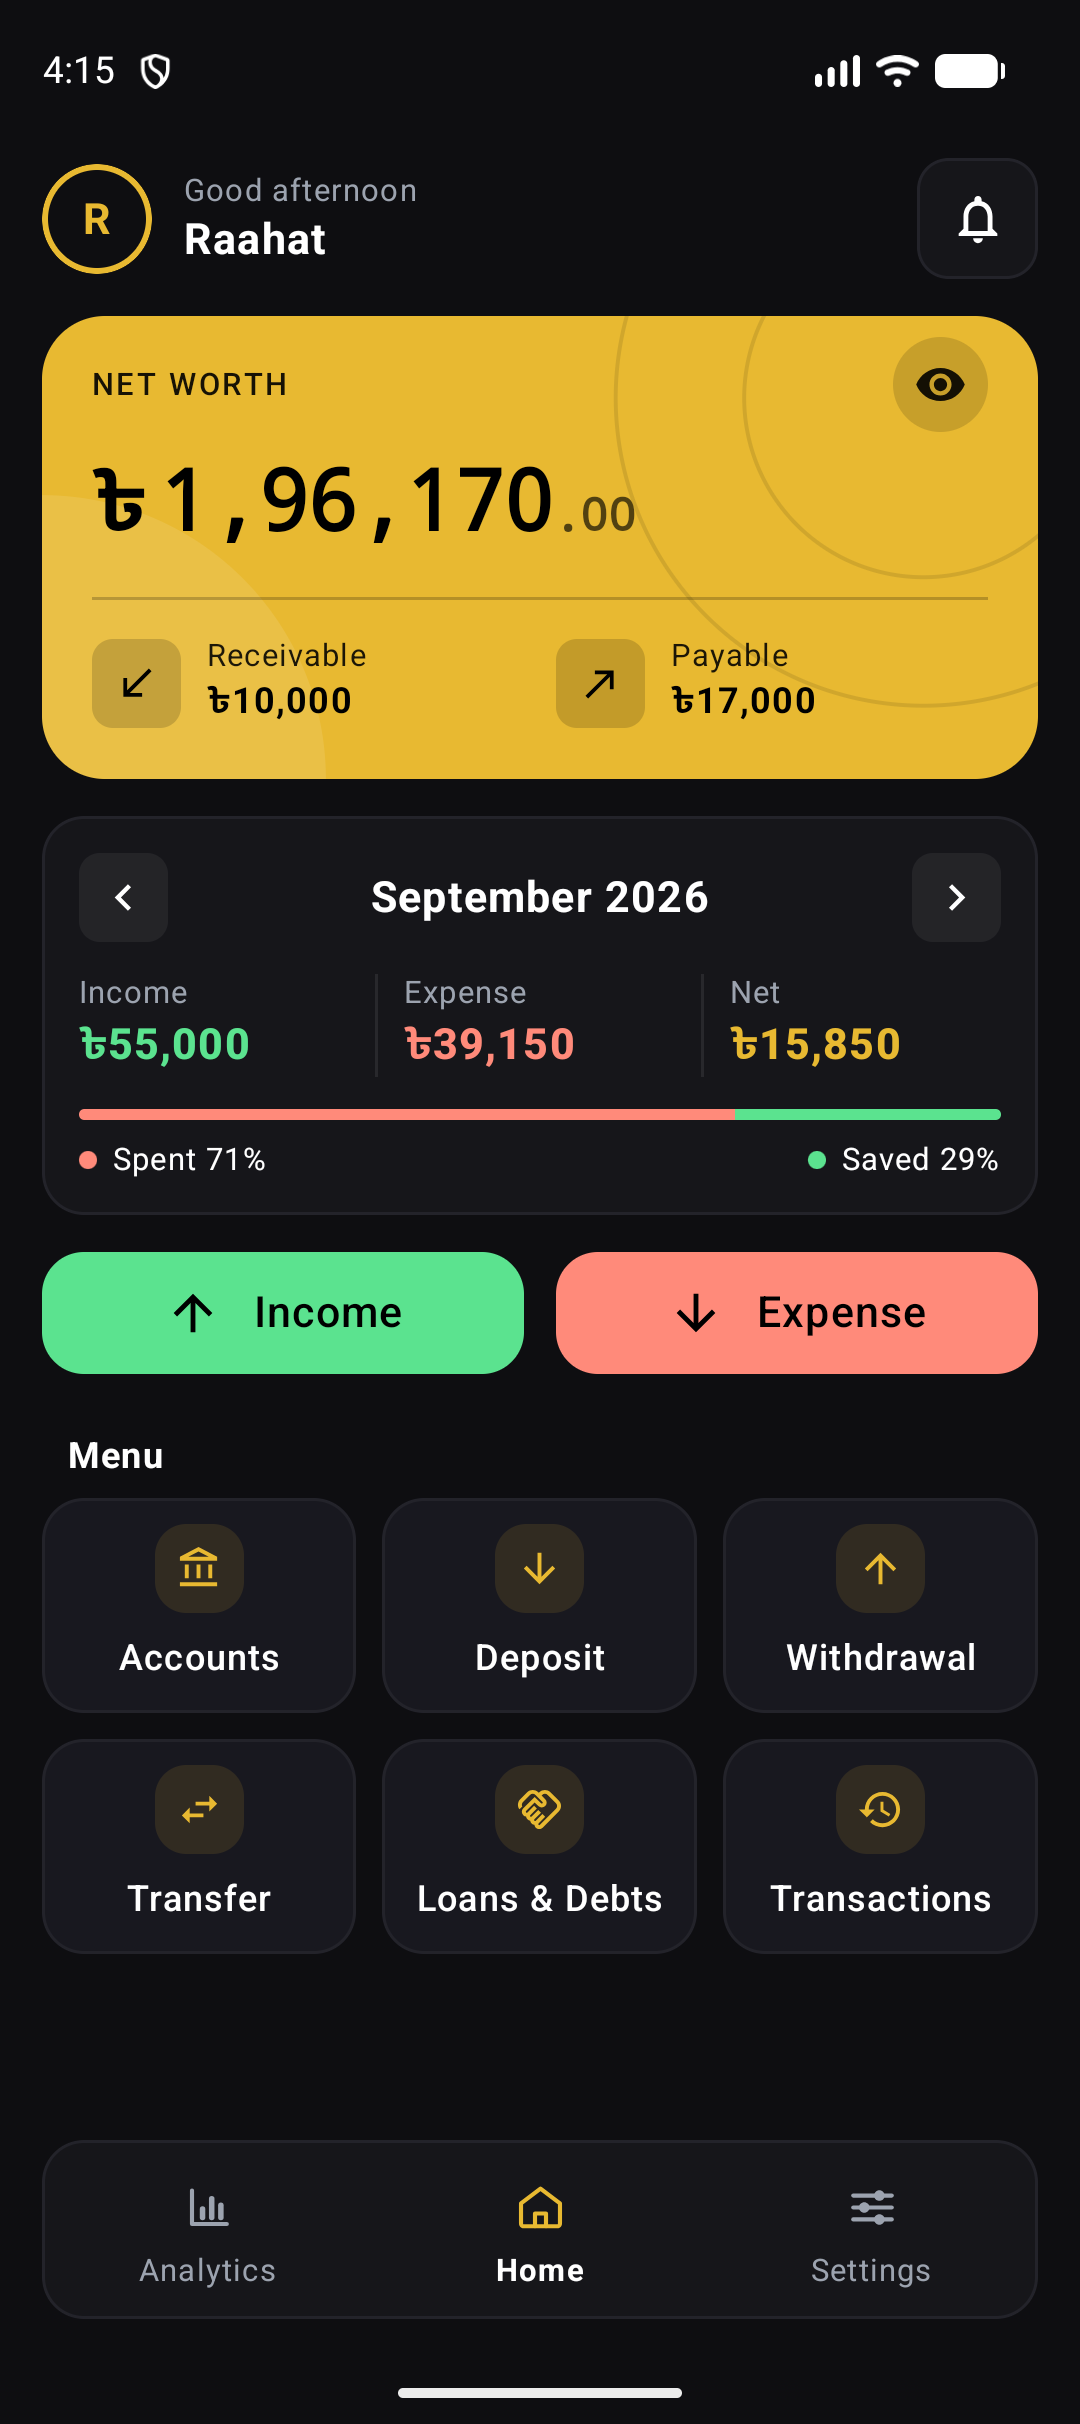
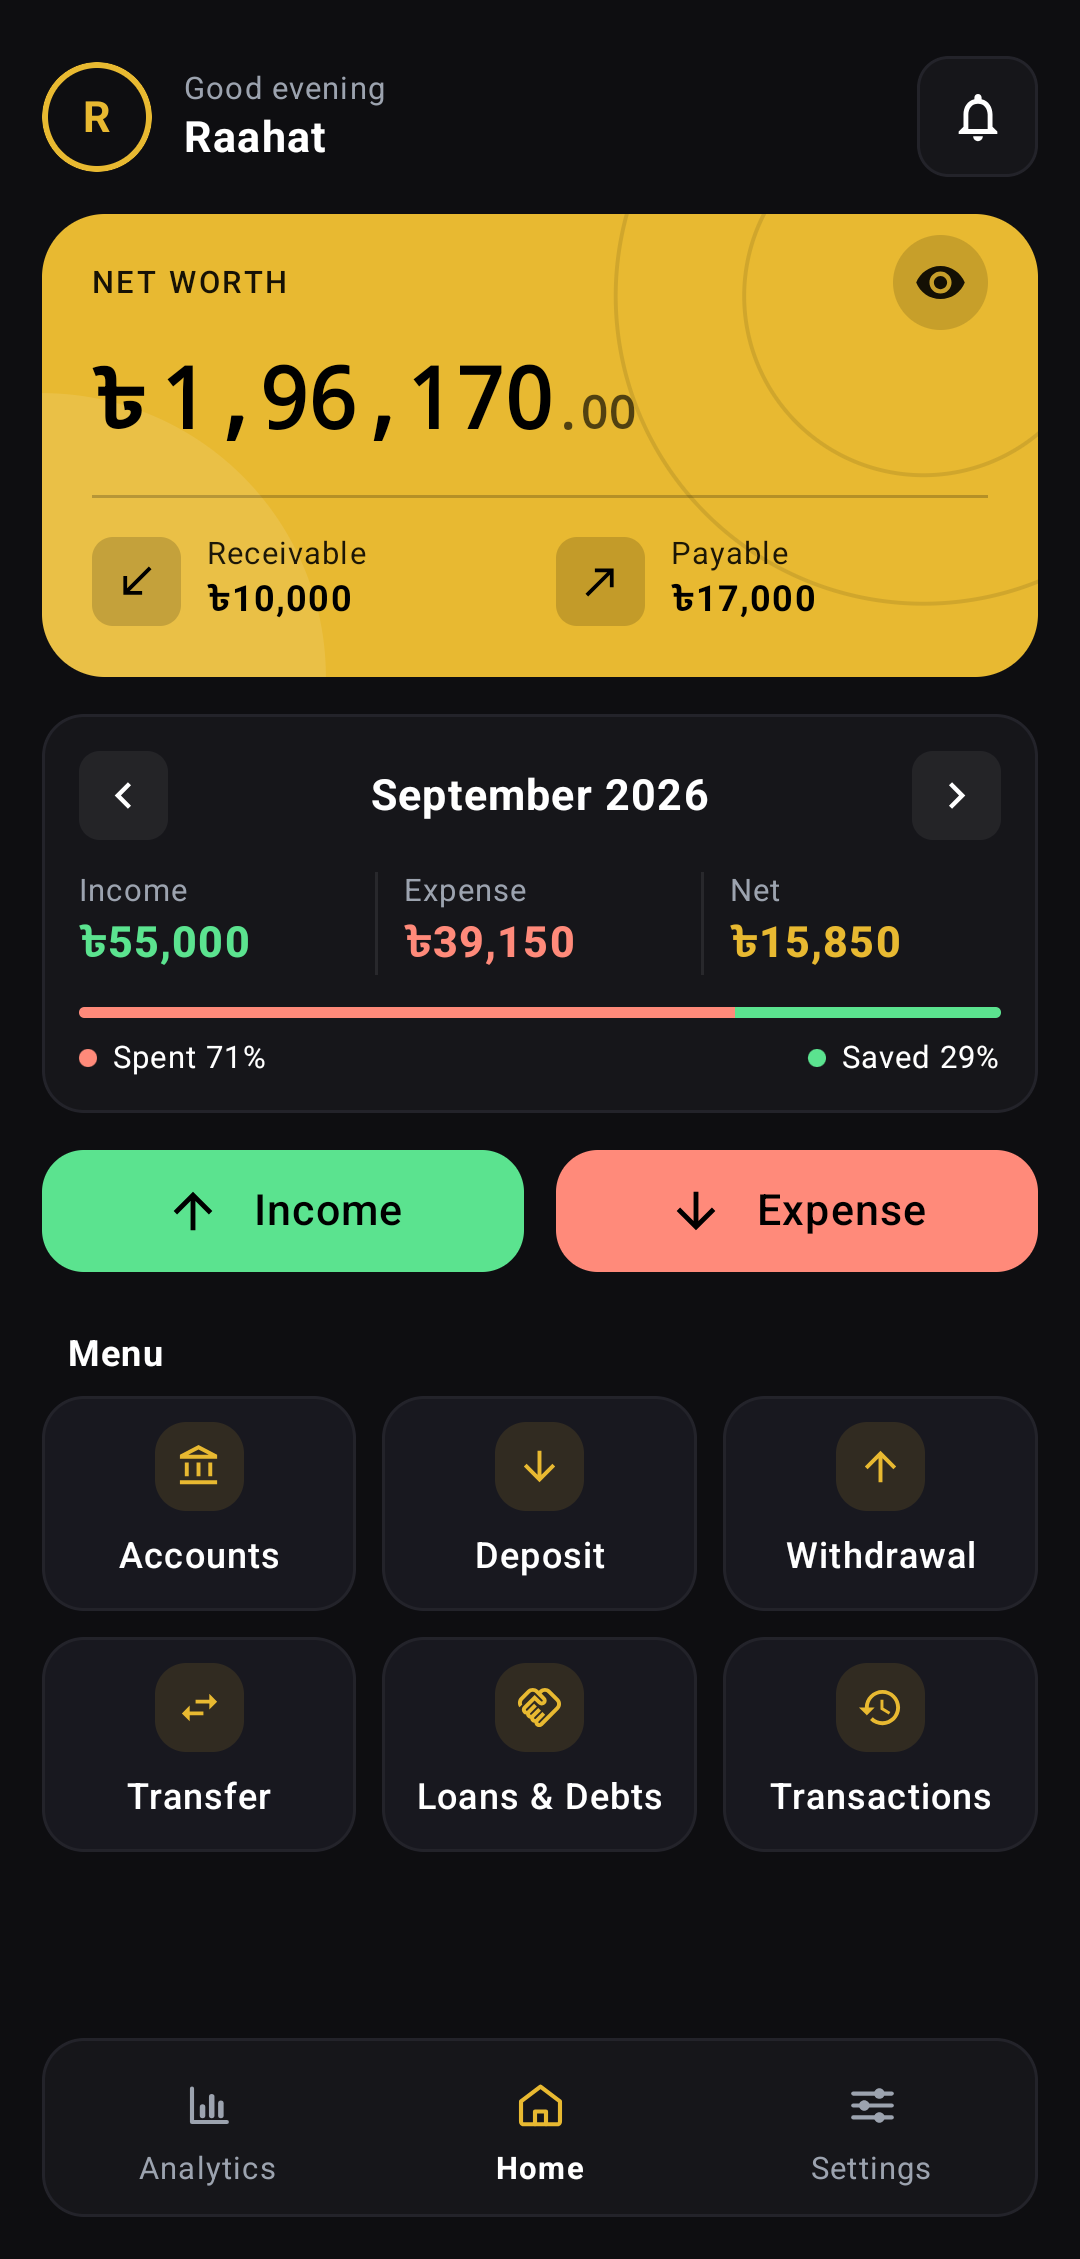
Every picture from 1.1.67, in both languages, without the phone's own bars
1.1.67 gave the app the wallet icon the site already wears, and the site's pictures
still showed the old one. All of them are re-taken on LB_Clean from that release:

- Steps 1 to 3 of the install guide, the phone's own dialogs, through a real install
  of 1.1.67 -- Chrome now names LedgerBook_v1.1.67.apk, and "Install this app?" and
  Play Protect show the wallet.
- Step 4's three sign-up screens and the features page's six screens, in both themes.

The app's own screens now come in Bangla too. With the site in Bangla, each picture of
the app swaps to its Bangla twin through data-bn -- the same screen, the same ledger,
the app's words in Bangla -- and back again in English, in the full-size view as well.
The phone's dialogs stay in English: they are in whatever language the reader's phone
is, and the Bangla text names their buttons in English to match. check.js checks every
data-bn file exists.

Every app screenshot has the phone's status bar (142px: time, signal, battery) and
gesture bar (63px) cut away, measured from the device's own insets, and 40px of the
app's own background put back above the first line so it does not sit on the edge.

The Backup screen looks smaller than the other five because the app draws that screen
in smaller type; the picture is the same size. Left as it is, by the owner's choice.

diff --git a/features.html b/features.html
@@ -96,43 +96,43 @@
     <div class="shots-row">
       <figure class="shot">
         <button type="button" class="frame zoom" aria-describedby="cap-1" data-s-label="lbOpen">
-          <img class="s-light" src="assets/screens/app-home-light.png" width="1080" height="2424" loading="lazy" alt="">
-          <img class="s-dark"  src="assets/screens/app-home-dark.png"  width="1080" height="2424" loading="lazy" alt="">
+          <img class="s-light" src="assets/screens/app-home-light.png" data-bn="assets/screens/app-home-light-bn.png" width="1080" height="2259" loading="lazy" alt="">
+          <img class="s-dark"  src="assets/screens/app-home-dark.png" data-bn="assets/screens/app-home-dark-bn.png"  width="1080" height="2259" loading="lazy" alt="">
         </button>
         <figcaption id="cap-1" data-s="shotHome">The first screen</figcaption>
       </figure>
       <figure class="shot">
         <button type="button" class="frame zoom" aria-describedby="cap-2" data-s-label="lbOpen">
-          <img class="s-light" src="assets/screens/app-txn-light.png" width="1080" height="2424" loading="lazy" alt="">
-          <img class="s-dark"  src="assets/screens/app-txn-dark.png"  width="1080" height="2424" loading="lazy" alt="">
+          <img class="s-light" src="assets/screens/app-txn-light.png" data-bn="assets/screens/app-txn-light-bn.png" width="1080" height="2259" loading="lazy" alt="">
+          <img class="s-dark"  src="assets/screens/app-txn-dark.png" data-bn="assets/screens/app-txn-dark-bn.png"  width="1080" height="2259" loading="lazy" alt="">
         </button>
         <figcaption id="cap-2" data-s="shotTxn">Every entry, filtered</figcaption>
       </figure>
       <figure class="shot">
         <button type="button" class="frame zoom" aria-describedby="cap-3" data-s-label="lbOpen">
-          <img class="s-light" src="assets/screens/app-accounts-light.png" width="1080" height="2424" loading="lazy" alt="">
-          <img class="s-dark"  src="assets/screens/app-accounts-dark.png"  width="1080" height="2424" loading="lazy" alt="">
+          <img class="s-light" src="assets/screens/app-accounts-light.png" data-bn="assets/screens/app-accounts-light-bn.png" width="1080" height="2259" loading="lazy" alt="">
+          <img class="s-dark"  src="assets/screens/app-accounts-dark.png" data-bn="assets/screens/app-accounts-dark-bn.png"  width="1080" height="2259" loading="lazy" alt="">
         </button>
         <figcaption id="cap-3" data-s="shotAccounts">The accounts</figcaption>
       </figure>
       <figure class="shot">
         <button type="button" class="frame zoom" aria-describedby="cap-4" data-s-label="lbOpen">
-          <img class="s-light" src="assets/screens/app-loans-light.png" width="1080" height="2424" loading="lazy" alt="">
-          <img class="s-dark"  src="assets/screens/app-loans-dark.png"  width="1080" height="2424" loading="lazy" alt="">
+          <img class="s-light" src="assets/screens/app-loans-light.png" data-bn="assets/screens/app-loans-light-bn.png" width="1080" height="2259" loading="lazy" alt="">
+          <img class="s-dark"  src="assets/screens/app-loans-dark.png" data-bn="assets/screens/app-loans-dark-bn.png"  width="1080" height="2259" loading="lazy" alt="">
         </button>
         <figcaption id="cap-4" data-s="shotLoans">Who owes whom</figcaption>
       </figure>
       <figure class="shot">
         <button type="button" class="frame zoom" aria-describedby="cap-5" data-s-label="lbOpen">
-          <img class="s-light" src="assets/screens/app-analytics-light.png" width="1080" height="2424" loading="lazy" alt="">
-          <img class="s-dark"  src="assets/screens/app-analytics-dark.png"  width="1080" height="2424" loading="lazy" alt="">
+          <img class="s-light" src="assets/screens/app-analytics-light.png" data-bn="assets/screens/app-analytics-light-bn.png" width="1080" height="2259" loading="lazy" alt="">
+          <img class="s-dark"  src="assets/screens/app-analytics-dark.png" data-bn="assets/screens/app-analytics-dark-bn.png"  width="1080" height="2259" loading="lazy" alt="">
         </button>
         <figcaption id="cap-5" data-s="shotAnalytics">Where the month went</figcaption>
       </figure>
       <figure class="shot">
         <button type="button" class="frame zoom" aria-describedby="cap-6" data-s-label="lbOpen">
-          <img class="s-light" src="assets/screens/app-backup-light.png" width="1080" height="2424" loading="lazy" alt="">
-          <img class="s-dark"  src="assets/screens/app-backup-dark.png"  width="1080" height="2424" loading="lazy" alt="">
+          <img class="s-light" src="assets/screens/app-backup-light.png" data-bn="assets/screens/app-backup-light-bn.png" width="1080" height="2259" loading="lazy" alt="">
+          <img class="s-dark"  src="assets/screens/app-backup-dark.png" data-bn="assets/screens/app-backup-dark-bn.png"  width="1080" height="2259" loading="lazy" alt="">
         </button>
         <figcaption id="cap-6" data-s="shotBackup">Backup and restore</figcaption>
       </figure>
@@ -183,8 +183,8 @@
         </div>
       </div>
       <button type="button" class="frame frame-lg see-phone zoom" data-s-label="lbOpen" data-cap="shotAnalytics">
-        <img class="s-light" src="assets/screens/app-analytics-light.png" width="1080" height="2424" loading="lazy" alt="">
-        <img class="s-dark"  src="assets/screens/app-analytics-dark.png"  width="1080" height="2424" loading="lazy" alt="">
+        <img class="s-light" src="assets/screens/app-analytics-light.png" data-bn="assets/screens/app-analytics-light-bn.png" width="1080" height="2259" loading="lazy" alt="">
+        <img class="s-dark"  src="assets/screens/app-analytics-dark.png" data-bn="assets/screens/app-analytics-dark-bn.png"  width="1080" height="2259" loading="lazy" alt="">
       </button>
     </div>
   </section>

diff --git a/install.html b/install.html
@@ -168,11 +168,11 @@
       <div class="step-pics gal gal-3 gal-phones" data-gal>
         <div class="gal-track">
           <figure class="pic"><p class="pic-label"><span class="pic-letter">a</span><span data-s="s4a">Tell it your name</span></p>
-            <button type="button" class="frame zoom" data-s-label="lbOpen"><img class="s-light" src="assets/screens/step4-name-light.png" alt="" loading="lazy" width="1080" height="2292"><img class="s-dark" src="assets/screens/step4-name-dark.png" alt="" loading="lazy" width="1080" height="2292"></button><figcaption data-s="cap4a"></figcaption></figure>
+            <button type="button" class="frame zoom" data-s-label="lbOpen"><img class="s-light" src="assets/screens/step4-name-light.png" data-bn="assets/screens/step4-name-light-bn.png" alt="" loading="lazy" width="1080" height="2259"><img class="s-dark" src="assets/screens/step4-name-dark.png" data-bn="assets/screens/step4-name-dark-bn.png" alt="" loading="lazy" width="1080" height="2259"></button><figcaption data-s="cap4a"></figcaption></figure>
           <figure class="pic"><p class="pic-label"><span class="pic-letter">b</span><span data-s="s4b">Create your PIN</span></p>
-            <button type="button" class="frame zoom" data-s-label="lbOpen"><img class="s-light" src="assets/screens/step4-create-light.png" alt="" loading="lazy" width="1080" height="2292"><img class="s-dark" src="assets/screens/step4-create-dark.png" alt="" loading="lazy" width="1080" height="2292"></button><figcaption data-s="cap4b"></figcaption></figure>
+            <button type="button" class="frame zoom" data-s-label="lbOpen"><img class="s-light" src="assets/screens/step4-create-light.png" data-bn="assets/screens/step4-create-light-bn.png" alt="" loading="lazy" width="1080" height="2259"><img class="s-dark" src="assets/screens/step4-create-dark.png" data-bn="assets/screens/step4-create-dark-bn.png" alt="" loading="lazy" width="1080" height="2259"></button><figcaption data-s="cap4b"></figcaption></figure>
           <figure class="pic"><p class="pic-label"><span class="pic-letter">c</span><span data-s="s4c">Confirm your PIN</span></p>
-            <button type="button" class="frame zoom" data-s-label="lbOpen"><img class="s-light" src="assets/screens/step4-confirm-light.png" alt="" loading="lazy" width="1080" height="2292"><img class="s-dark" src="assets/screens/step4-confirm-dark.png" alt="" loading="lazy" width="1080" height="2292"></button><figcaption data-s="cap4c"></figcaption></figure>
+            <button type="button" class="frame zoom" data-s-label="lbOpen"><img class="s-light" src="assets/screens/step4-confirm-light.png" data-bn="assets/screens/step4-confirm-light-bn.png" alt="" loading="lazy" width="1080" height="2259"><img class="s-dark" src="assets/screens/step4-confirm-dark.png" data-bn="assets/screens/step4-confirm-dark-bn.png" alt="" loading="lazy" width="1080" height="2259"></button><figcaption data-s="cap4c"></figcaption></figure>
         </div>
         <div class="gal-nav">
           <button type="button" class="gal-btn gal-prev"><svg class="ico" viewBox="0 0 24 24" aria-hidden="true"><path d="m15 5-7 7 7 7"/></svg><span data-s="galPrev">Prev</span></button>

diff --git a/assets/site.js b/assets/site.js
@@ -63,6 +63,15 @@ function applyLang(lang) {
       const b = document.createElement('b'); b.textContent = part; return b;
     }));
   });
+  // Pictures of the app's own screens come in both languages, as the app does: data-bn
+  // names the Bangla one, and the English src is kept to switch back to. The phone's own
+  // dialogs -- Chrome, Play Protect -- have none; they are in whatever language the
+  // reader's phone is, and the Bangla text names their buttons in English to match.
+  document.querySelectorAll('img[data-bn]').forEach(img => {
+    if (!img.dataset.en) img.dataset.en = img.getAttribute('src');
+    const want = lang === 'bn' ? img.dataset.bn : img.dataset.en;
+    if (img.getAttribute('src') !== want) img.setAttribute('src', want);
+  });
   // A control whose face is a glyph still needs words for a screen reader; data-s-label
   // puts them in aria-label instead of in the text, and in the same language.
   document.querySelectorAll('[data-s-label]').forEach(el => {

diff --git a/check.js b/check.js
@@ -58,7 +58,7 @@ for (const page of [...PAGES, ...HEADERLESS]) {
   for (const m of html.matchAll(/data-s(-label|-rich)?="([^"]+)"/g))
     if (!S[m[2]]) note(`${page}: data-s${m[1] || ''}="${m[2]}" has no entry in the catalogue`);
 
-  for (const m of html.matchAll(/(?:src|srcset|href)="((?:assets)\/[^"]+)"/g))
+  for (const m of html.matchAll(/(?:src|srcset|href|data-bn)="((?:assets)\/[^"]+)"/g))
     if (!fs.existsSync(m[1])) note(`${page}: ${m[1]} is referenced but not on disk`);
 
   // Every <img> carries its own size so the page does not jump as pictures arrive.

diff --git a/README.md b/README.md
@@ -73,8 +73,9 @@ so the enlarged view is sharp on a phone. They came from the sample ledger alrea
 LB_Clean, with the owner's name set to Raahat; reaching the sign-up screens used the app's
 own Sign Out & Reset PIN, which keeps the ledger.
 
-Steps 1 to 3 were re-taken the same day, full size, because the old ones still showed the
-app icon from before it changed. That needed a genuine first install on LB_Clean: its app
+Steps 1 to 3 were re-taken full size, and again for 1.1.67, the release that gave the app
+the wallet icon the site already uses -- the installer shows the icon inside the APK, so
+these pictures follow the app's icon, never the site's. That needed a genuine first install on LB_Clean: its app
 data was copied off with run-as, the app uninstalled, the release downloaded through the
 site's own get.html in the emulator's Chrome and walked up to Play Protect's "This app looks
 safe", then declined; the debug build went back on and the data was restored, and the
